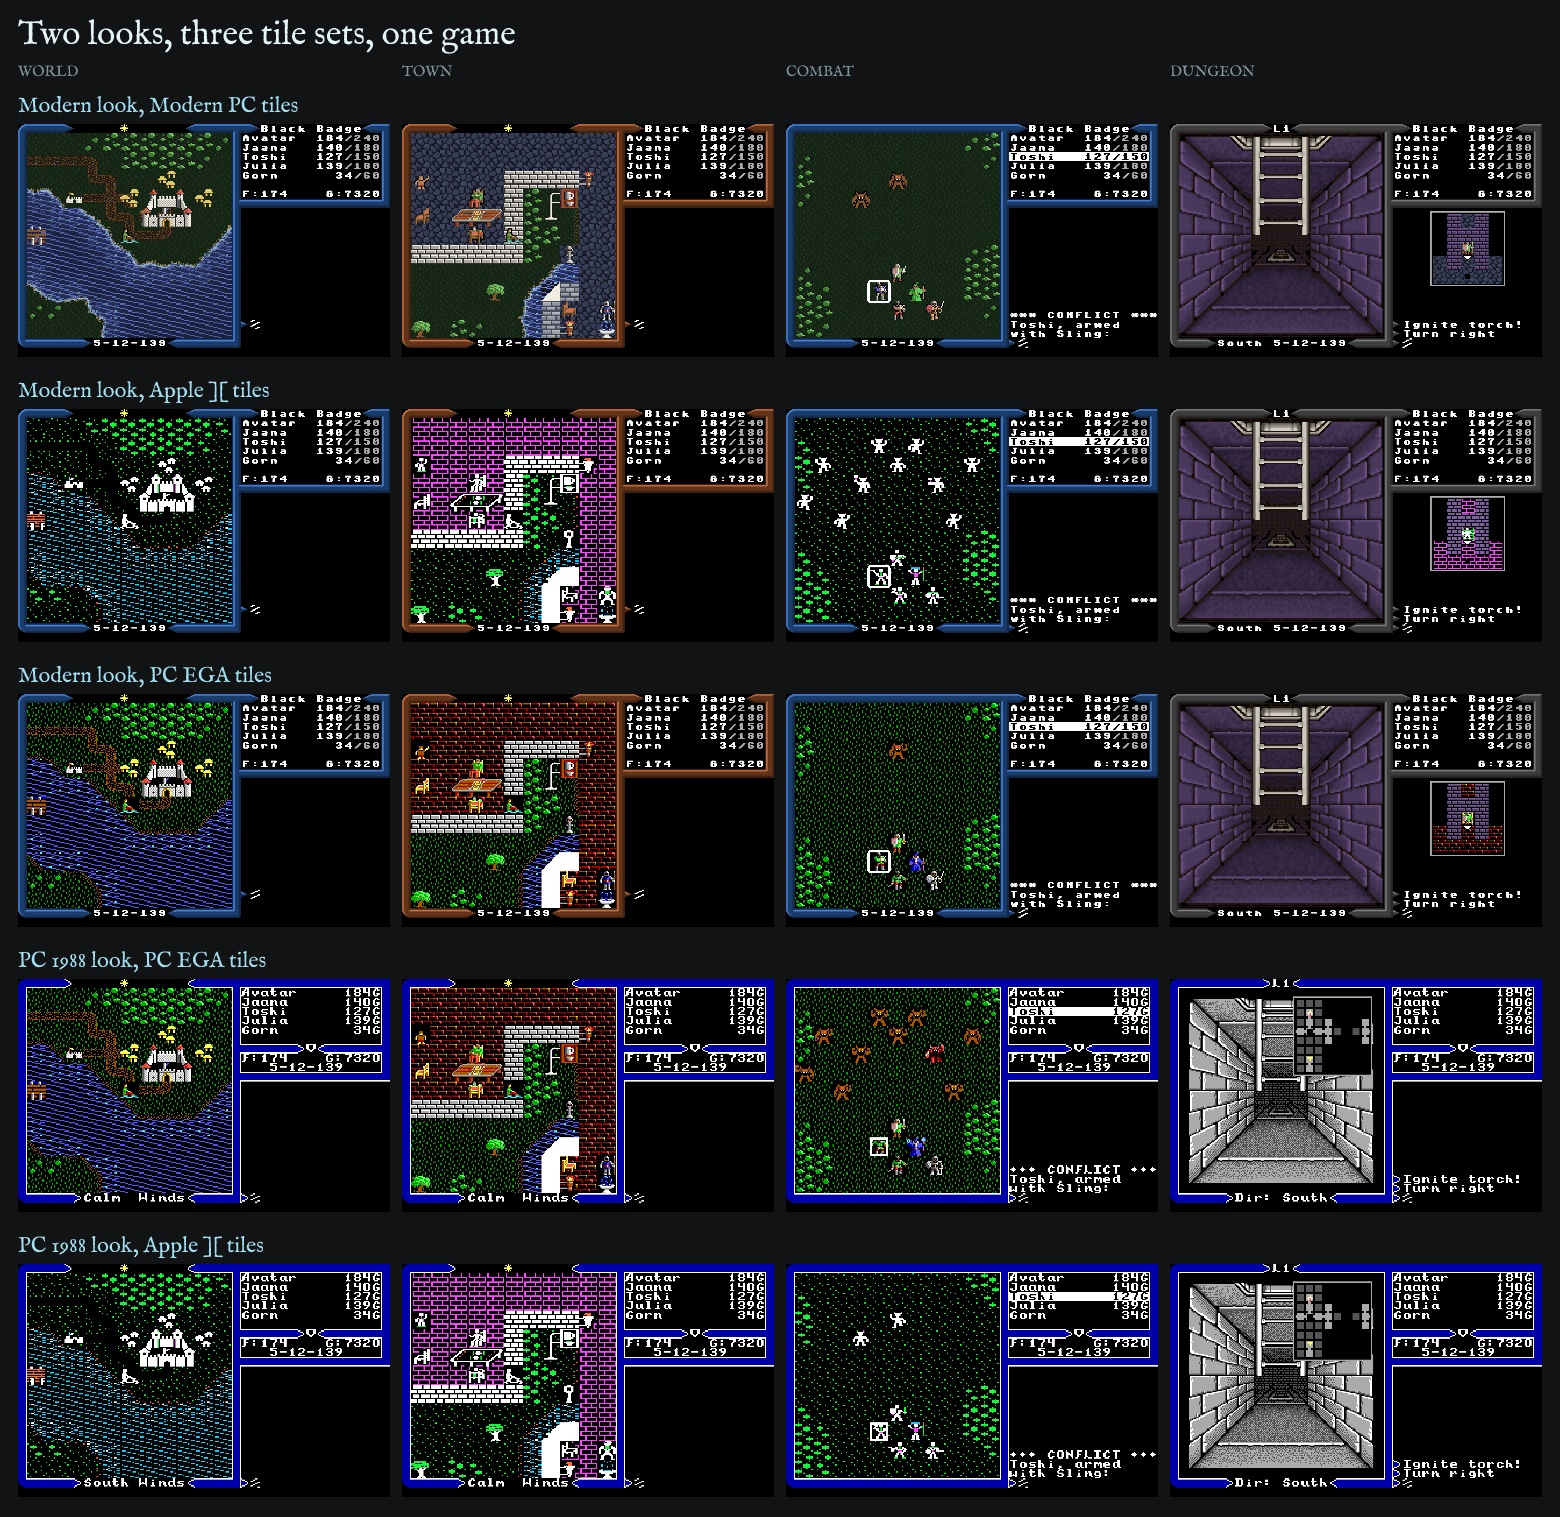
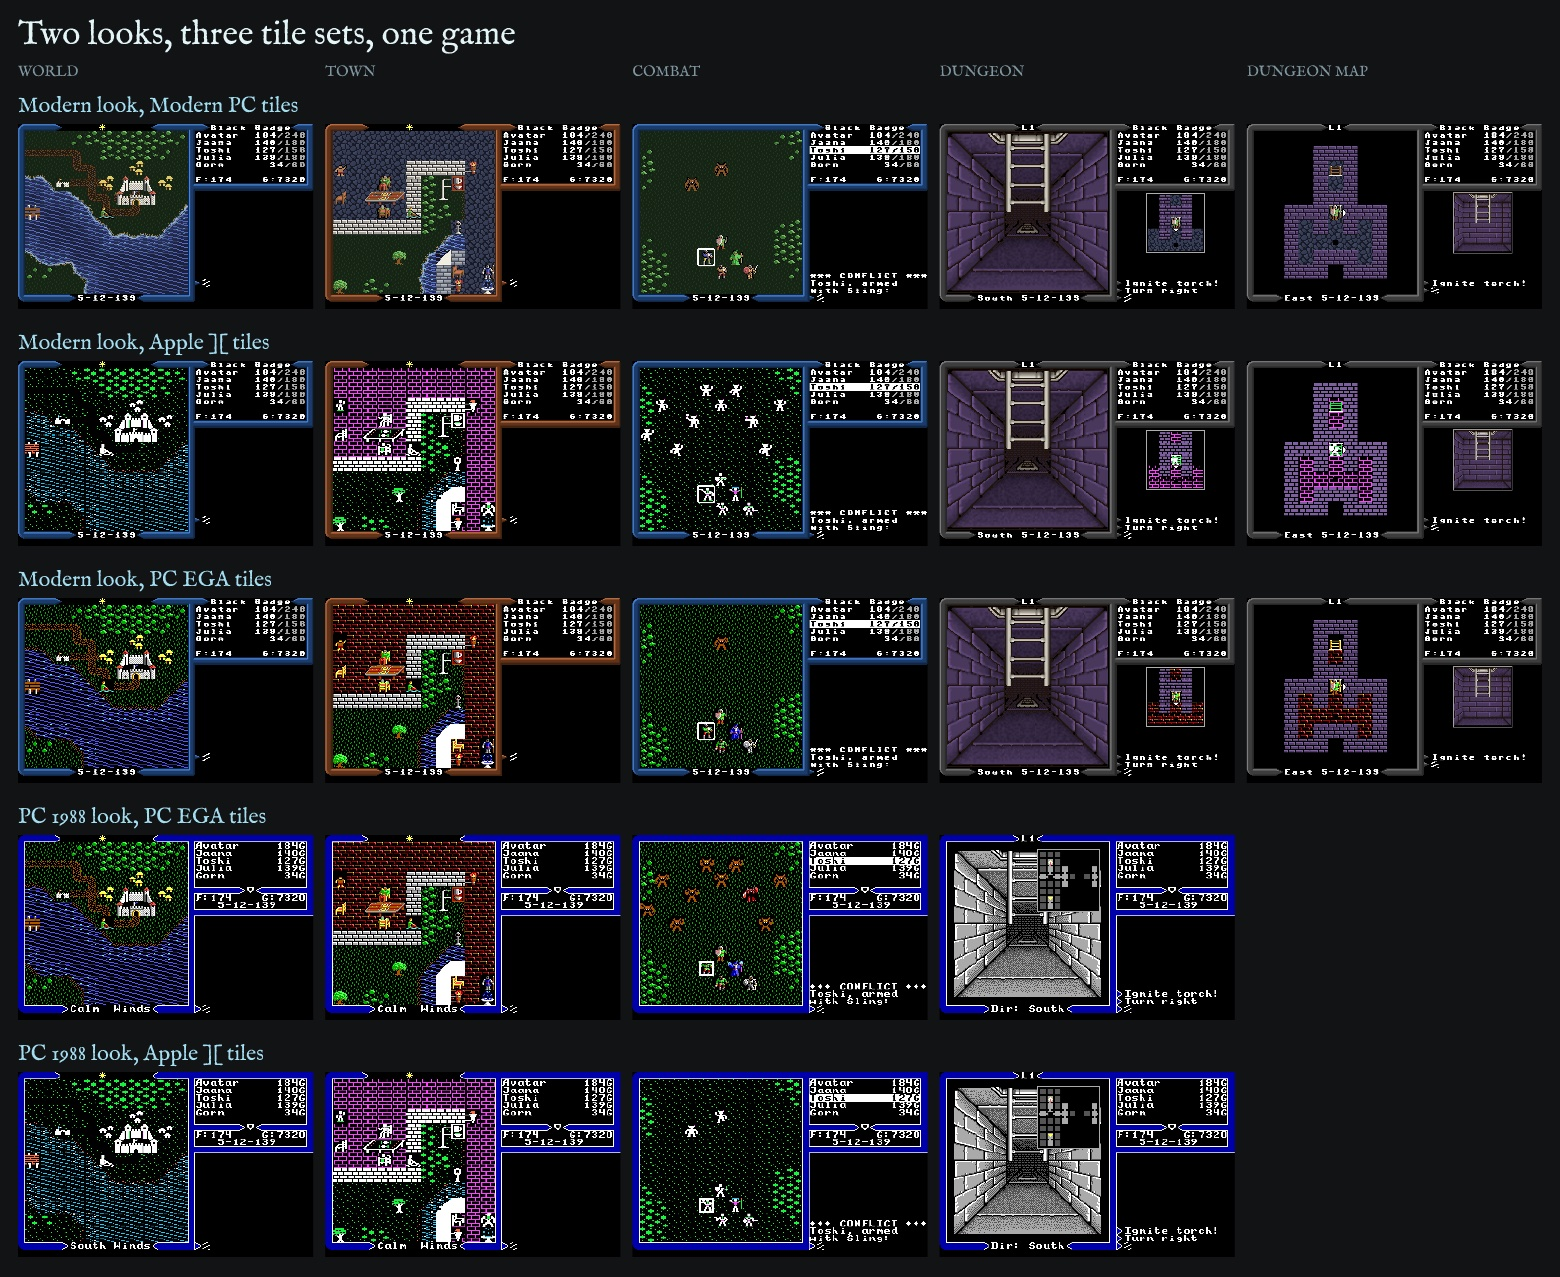
Looks sheet: the Modern look's dungeon also as the whole level's map
The first-person view is the same in every tile set; the map shows each set's
own dungeon tiles. The Apple ][ first-person view is issue #2.

diff --git a/README.md b/README.md
@@ -14,7 +14,7 @@ the Apple ][ tile set, and the box's painting, for the key art.
 
 ![The Modern look: a town, talk by the words you have learned, combat aboard a ship, a dungeon in first person and mapped whole, the journal, the cloth map, the Avatar at the mirror and the gypsy's questions](promo/features.jpg)
 
-![The two looks and their tile sets - Modern with Modern PC, Apple ][ or PC EGA tiles, PC 1988 with PC EGA or Apple ][ - each in the world, a town, combat and a dungeon](promo/looks.jpg)
+![The two looks and their tile sets - Modern with Modern PC, Apple ][ or PC EGA tiles, PC 1988 with PC EGA or Apple ][ - each in the world, a town, combat and a dungeon, and for the Modern look the dungeon's whole-level map](promo/looks.jpg)
 
 - [Installation](#installation) The browser, the Steam Deck, Windows,
   macOS, Linux and Android.
